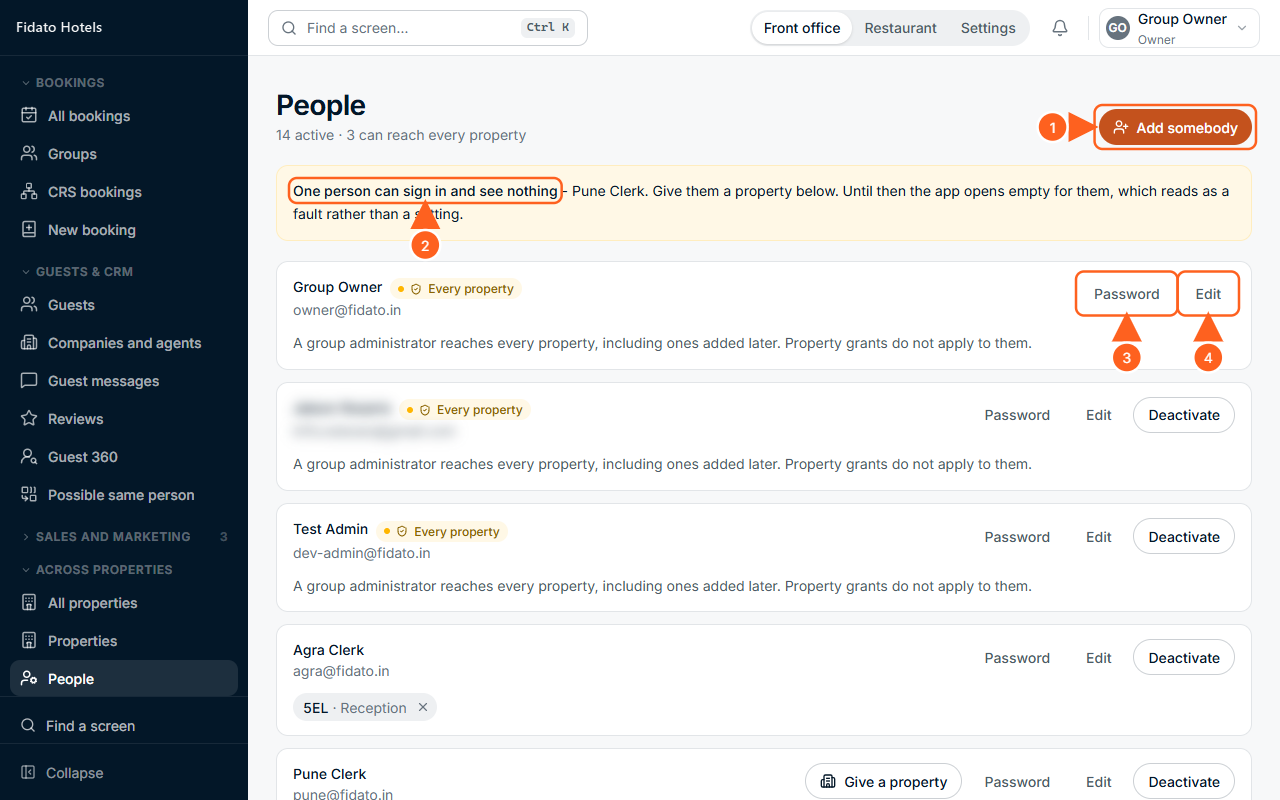
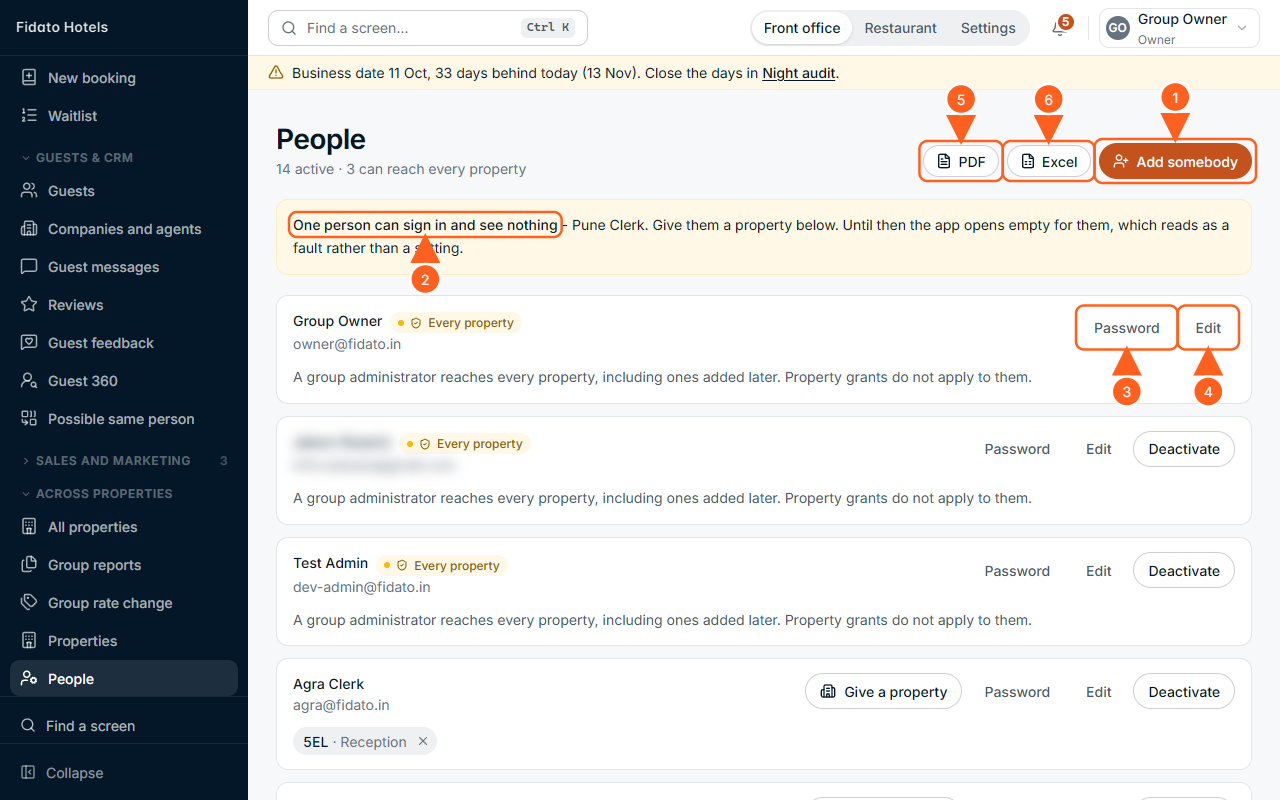
Manual A16: PDF and Excel on Properties and People, the Cancel a night audit card, the practice hotel of the films

diff --git a/docs/manual/manual.html b/docs/manual/manual.html
@@ -236,7 +236,7 @@ figure.shot.phone img { max-width: 72mm; }
   <div class="foot">
     The screens in this book are from the test hotel, 5 Elements Akkalkot. Every guest in it is made up.<br>
     Decision numbers such as D27-249 are the owner's decisions; the list is kept in <code style="background:none;color:inherit">docs/briefs/decisions-*.md</code>.<br>
-    486 pictures. Built from the chapters in docs/manual/chapters.
+    487 pictures. Built from the chapters in docs/manual/chapters.
   </div>
 </section>
 
@@ -10372,6 +10372,15 @@ figure.shot.phone img { max-width: 72mm; }
   <p>Open <span class="ui">Properties</span>. What you see depends on who you are.</p>
   <p><span class="ui">PDF</span> and <span class="ui">Excel</span> save the properties you can reach (A11.2, <span class="d">D27-383</span>).</p>
 
+  <figure class="shot" id="fig-A16-21">
+    <img src="img/A16-21.png" alt="Properties, the top of the page: PDF and Excel above the cards, and the first two cards below">
+    <figcaption><b>Figure A16-21.</b> Properties: PDF and Excel.</figcaption>
+    <ol class="callouts">
+      <li>PDF: the properties you can reach, as a file</li>
+      <li>Excel: the same, as a spreadsheet</li>
+    </ol>
+  </figure>
+
 
   <h3>The owner and a group administrator</h3>
   <p>The line under the title counts them: <span class="msg">“1 open”</span>, or <span class="msg">“2 open · 1 closed”</span>. Each open property has a card; closed ones are under <span class="ui">Closed</span>, faded.</p>
@@ -10415,7 +10424,7 @@ figure.shot.phone img { max-width: 72mm; }
     <li>The window says how many records went, the backup's file name and whether it was copied off the server, and the new business date: today. Then, once the hotel is cleared, the guests' ID photos are deleted from Google Drive, and it says how many: <span class="msg">“3 ID photos deleted from Google Drive.”</span></li>
   </ol>
   <figure class="shot" id="fig-A16-17">
-    <img src="img/A16-17.png" alt="The Clear Practice Hotel Nashik and start today window: This cannot be undone, Deleted: nothing - there are no bookings, bills or orders, Kept: the hotel, its rooms, rates, menu, tables, staff, sign-ins and settings, the backup and business date line, Type PHN to confirm with an empty box, Cancel, and Clear and start today still off">
+    <img src="img/A16-17.png" alt="The Clear Practice Hotel Pune and start today window: This cannot be undone, Deleted: nothing - there are no bookings, bills or orders, Kept: the hotel, its rooms, rates, menu, tables, staff, sign-ins and settings, the backup and business date line, Type PHP to confirm with an empty box, Cancel, and Clear and start today still off">
     <figcaption><b>Figure A16-17.</b> Clear this hotel and start today: what goes, what stays, the code to type. A practice hotel with nothing in it yet; a hotel that has traded lists its bookings, guests, bills and the rest in numbers.</figcaption>
     <ol class="callouts">
       <li>The hotel's name. This cannot be undone</li>
@@ -10508,13 +10517,14 @@ figure.shot.phone img { max-width: 72mm; }
   <p>On a property's card, click <span class="ui">Open</span> (the owner's card; a GM or an Admin has it on the card of a property they run). The page shows that property's own figures, on its own business date, not the date of the hotel chosen at the top, and the people who work there. A group administrator can open it for any property, and a GM or Admin for their own; anybody else reads <span class="msg">“This property is not yours to manage”</span>.</p>
 
   <figure class="shot" id="fig-A16-07">
-    <img src="img/A16-07.png" alt="5 Elements Akkalkot's page: Add somebody here, today's figures, the month's figures, the FSSAI licence number, and Who works here">
+    <img src="img/A16-07.png" alt="5 Elements Akkalkot's page: Add somebody here, today's figures, the month's figures, the FSSAI licence number, the Cancel a night audit card, and Who works here">
     <figcaption><b>Figure A16-07.</b> One property: its figures and who works there.</figcaption>
     <ol class="callouts">
       <li>Add somebody here</li>
       <li>Today: rooms sold, occupancy, empty, in house now</li>
       <li>The month to date: room revenue, average rate, RevPAR, and the rooms it has</li>
       <li>The FSSAI licence number, with Change</li>
+      <li>Cancel a night audit: the owner and an Admin only (A7.5)</li>
       <li>Who works here</li>
       <li>Starts on: the first screen after they sign in</li>
       <li>The key: set a password for them</li>
@@ -10525,6 +10535,7 @@ figure.shot.phone img { max-width: 72mm; }
   <ul>
     <li>A figure not measured yet is a dash. A property in its first week often has no month figures yet, and <span class="ui">Average rate</span> and <span class="ui">RevPAR</span> are a dash while nothing is sold, never ₹0.</li>
     <li><b>FSSAI licence number:</b> the owner, an Admin or the GM clicks <span class="ui">Change</span>, types the 14 digits from the licence (blank for none) and clicks <span class="ui">Save</span>. It prints on food bills from then on.</li>
+    <li><b>Cancel a night audit:</b> a card under the FSSAI licence number, shown to the owner and an Admin only. It is for an audit run by mistake: <span class="ui">How far back</span> (<span class="ui">To any earlier day</span> or <span class="ui">One audit at a time</span>), <span class="ui">Back to</span>, the list of what would be undone, <span class="ui">Why</span> (required), the tick <span class="msg">“I have read what this undoes and moves.”</span> and the red <span class="ui">Cancel … audit</span> button. Nothing happens until that button is clicked; the steps and what is undone are in A7.5.</li>
     <li><b>Starts on</b> is <span class="ui">Dashboard</span>, <span class="ui">Rooms</span> or <span class="ui">Calendar</span>. Choosing one saves it at once, from the person's next sign-in. They can change it themselves.</li>
     <li>A person with no password yet shows <span class="msg">“No password yet”</span> in red: they cannot sign in until one is set (the key).</li>
     <li><span class="ui">Remove</span> asks first, as on People (A16.6).</li>
@@ -10561,13 +10572,15 @@ figure.shot.phone img { max-width: 72mm; }
   <p>Open <span class="ui">People</span>. The line under the title counts them: <span class="msg">“14 active · 3 can reach every property”</span>. The owner and the other group administrators see everybody; anybody else sees themselves and the people they share a property with.</p>
 
   <figure class="shot" id="fig-A16-10">
-    <img src="img/A16-10.png" alt="People: Add somebody, the yellow note One person can sign in and see nothing, and the Group Owner's card with Password and Edit">
+    <img src="img/A16-10.png" alt="People: PDF, Excel and Add somebody, the yellow note One person can sign in and see nothing, and the Group Owner's card with Password and Edit">
     <figcaption><b>Figure A16-10.</b> The top of People.</figcaption>
     <ol class="callouts">
       <li>Add somebody (A16.7)</li>
       <li>Somebody who can sign in and see nothing: give them a property</li>
       <li>Password (A16.8)</li>
       <li>Edit (A16.8)</li>
+      <li>PDF: everyone you can reach, as the list shows them (A11.2)</li>
+      <li>Excel: the same, as a spreadsheet</li>
     </ol>
   </figure>
 

diff --git a/docs/manual/chapters/a16.html b/docs/manual/chapters/a16.html
@@ -77,6 +77,15 @@
   <p>Open <span class="ui">Properties</span>. What you see depends on who you are.</p>
   <p><span class="ui">PDF</span> and <span class="ui">Excel</span> save the properties you can reach (A11.2, <span class="d">D27-383</span>).</p>
 
+  <figure class="shot" id="fig-A16-21">
+    <img src="img/A16-21.png" alt="Properties, the top of the page: PDF and Excel above the cards, and the first two cards below">
+    <figcaption><b>Figure A16-21.</b> Properties: PDF and Excel.</figcaption>
+    <ol class="callouts">
+      <li>PDF: the properties you can reach, as a file</li>
+      <li>Excel: the same, as a spreadsheet</li>
+    </ol>
+  </figure>
+
 
   <h3>The owner and a group administrator</h3>
   <p>The line under the title counts them: <span class="msg">“1 open”</span>, or <span class="msg">“2 open · 1 closed”</span>. Each open property has a card; closed ones are under <span class="ui">Closed</span>, faded.</p>
@@ -120,7 +129,7 @@
     <li>The window says how many records went, the backup's file name and whether it was copied off the server, and the new business date: today. Then, once the hotel is cleared, the guests' ID photos are deleted from Google Drive, and it says how many: <span class="msg">“3 ID photos deleted from Google Drive.”</span></li>
   </ol>
   <figure class="shot" id="fig-A16-17">
-    <img src="img/A16-17.png" alt="The Clear Practice Hotel Nashik and start today window: This cannot be undone, Deleted: nothing - there are no bookings, bills or orders, Kept: the hotel, its rooms, rates, menu, tables, staff, sign-ins and settings, the backup and business date line, Type PHN to confirm with an empty box, Cancel, and Clear and start today still off">
+    <img src="img/A16-17.png" alt="The Clear Practice Hotel Pune and start today window: This cannot be undone, Deleted: nothing - there are no bookings, bills or orders, Kept: the hotel, its rooms, rates, menu, tables, staff, sign-ins and settings, the backup and business date line, Type PHP to confirm with an empty box, Cancel, and Clear and start today still off">
     <figcaption><b>Figure A16-17.</b> Clear this hotel and start today: what goes, what stays, the code to type. A practice hotel with nothing in it yet; a hotel that has traded lists its bookings, guests, bills and the rest in numbers.</figcaption>
     <ol class="callouts">
       <li>The hotel's name. This cannot be undone</li>
@@ -213,13 +222,14 @@
   <p>On a property's card, click <span class="ui">Open</span> (the owner's card; a GM or an Admin has it on the card of a property they run). The page shows that property's own figures, on its own business date, not the date of the hotel chosen at the top, and the people who work there. A group administrator can open it for any property, and a GM or Admin for their own; anybody else reads <span class="msg">“This property is not yours to manage”</span>.</p>
 
   <figure class="shot" id="fig-A16-07">
-    <img src="img/A16-07.png" alt="5 Elements Akkalkot's page: Add somebody here, today's figures, the month's figures, the FSSAI licence number, and Who works here">
+    <img src="img/A16-07.png" alt="5 Elements Akkalkot's page: Add somebody here, today's figures, the month's figures, the FSSAI licence number, the Cancel a night audit card, and Who works here">
     <figcaption><b>Figure A16-07.</b> One property: its figures and who works there.</figcaption>
     <ol class="callouts">
       <li>Add somebody here</li>
       <li>Today: rooms sold, occupancy, empty, in house now</li>
       <li>The month to date: room revenue, average rate, RevPAR, and the rooms it has</li>
       <li>The FSSAI licence number, with Change</li>
+      <li>Cancel a night audit: the owner and an Admin only (A7.5)</li>
       <li>Who works here</li>
       <li>Starts on: the first screen after they sign in</li>
       <li>The key: set a password for them</li>
@@ -230,6 +240,7 @@
   <ul>
     <li>A figure not measured yet is a dash. A property in its first week often has no month figures yet, and <span class="ui">Average rate</span> and <span class="ui">RevPAR</span> are a dash while nothing is sold, never ₹0.</li>
     <li><b>FSSAI licence number:</b> the owner, an Admin or the GM clicks <span class="ui">Change</span>, types the 14 digits from the licence (blank for none) and clicks <span class="ui">Save</span>. It prints on food bills from then on.</li>
+    <li><b>Cancel a night audit:</b> a card under the FSSAI licence number, shown to the owner and an Admin only. It is for an audit run by mistake: <span class="ui">How far back</span> (<span class="ui">To any earlier day</span> or <span class="ui">One audit at a time</span>), <span class="ui">Back to</span>, the list of what would be undone, <span class="ui">Why</span> (required), the tick <span class="msg">“I have read what this undoes and moves.”</span> and the red <span class="ui">Cancel … audit</span> button. Nothing happens until that button is clicked; the steps and what is undone are in A7.5.</li>
     <li><b>Starts on</b> is <span class="ui">Dashboard</span>, <span class="ui">Rooms</span> or <span class="ui">Calendar</span>. Choosing one saves it at once, from the person's next sign-in. They can change it themselves.</li>
     <li>A person with no password yet shows <span class="msg">“No password yet”</span> in red: they cannot sign in until one is set (the key).</li>
     <li><span class="ui">Remove</span> asks first, as on People (A16.6).</li>
@@ -266,13 +277,15 @@
   <p>Open <span class="ui">People</span>. The line under the title counts them: <span class="msg">“14 active · 3 can reach every property”</span>. The owner and the other group administrators see everybody; anybody else sees themselves and the people they share a property with.</p>
 
   <figure class="shot" id="fig-A16-10">
-    <img src="img/A16-10.png" alt="People: Add somebody, the yellow note One person can sign in and see nothing, and the Group Owner's card with Password and Edit">
+    <img src="img/A16-10.png" alt="People: PDF, Excel and Add somebody, the yellow note One person can sign in and see nothing, and the Group Owner's card with Password and Edit">
     <figcaption><b>Figure A16-10.</b> The top of People.</figcaption>
     <ol class="callouts">
       <li>Add somebody (A16.7)</li>
       <li>Somebody who can sign in and see nothing: give them a property</li>
       <li>Password (A16.8)</li>
       <li>Edit (A16.8)</li>
+      <li>PDF: everyone you can reach, as the list shows them (A11.2)</li>
+      <li>Excel: the same, as a spreadsheet</li>
     </ol>
   </figure>
 

diff --git a/docs/manual/CHANGELOG.md b/docs/manual/CHANGELOG.md
@@ -10,3 +10,4 @@ One line per chapter and picture set, in the order they were committed; the deci
 - 13 Nov, A7 (D27-396): A7.3 lists the seven things that can stop the audit (a day not begun, the hour, due out, the front desk drawer, each outlet's till, the bar's closing count, no GST rule), taken from the server's own sentences.
 - 13 Nov, A10 (D27-396): A10-01 and A10-04 retaken with PDF and Excel; A10-33 retaken on the demo (Lata Bhosale's preferences on room 204, Ganesh Patil still in it); A10.4 says which rows have Edit.
 - 13 Nov, A11 (D27-396): A11-04 shows Email; A11-12, 13, 15, 16 show Print, PDF, Excel and CSV (A11.2 said Print and CSV only).
+- 13 Nov, A16 (D27-396): A16-21 new (PDF and Excel on Properties), A16-10 with PDF and Excel on People, A16-07 with the Cancel a night audit card, A16-17 taken for Practice Hotel Pune (PHP), the practice hotel of the films; A16.5 says who has the card.
